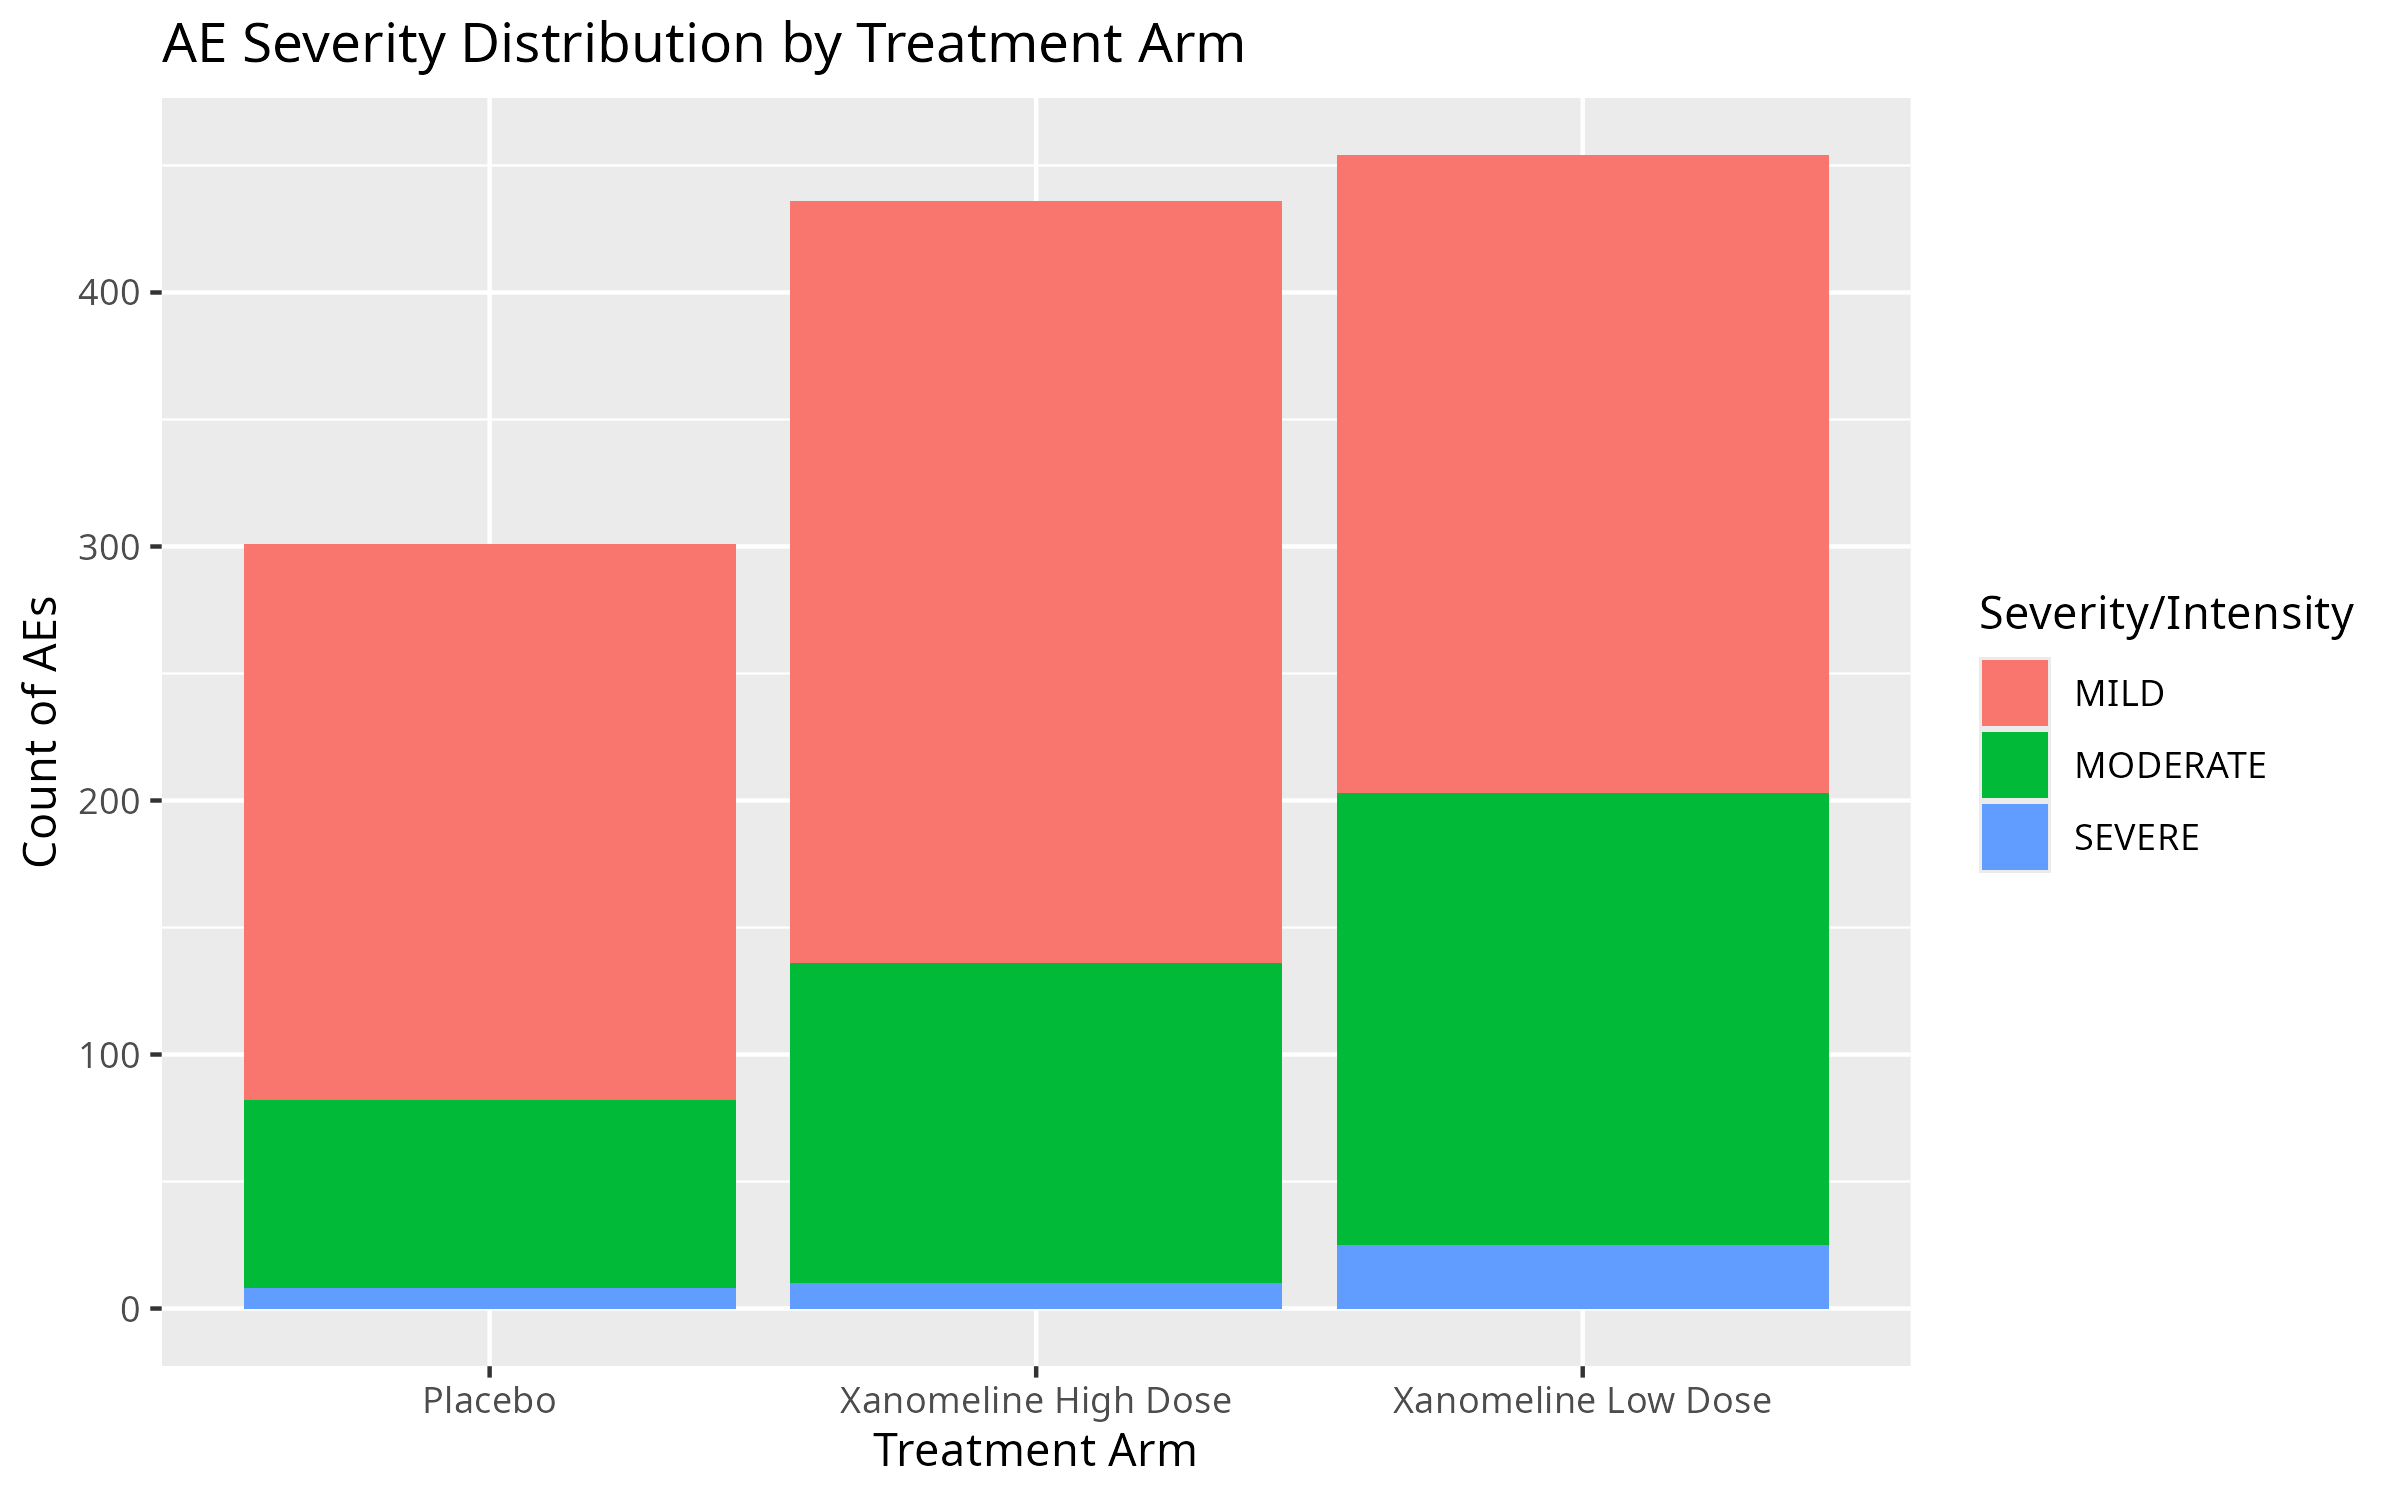
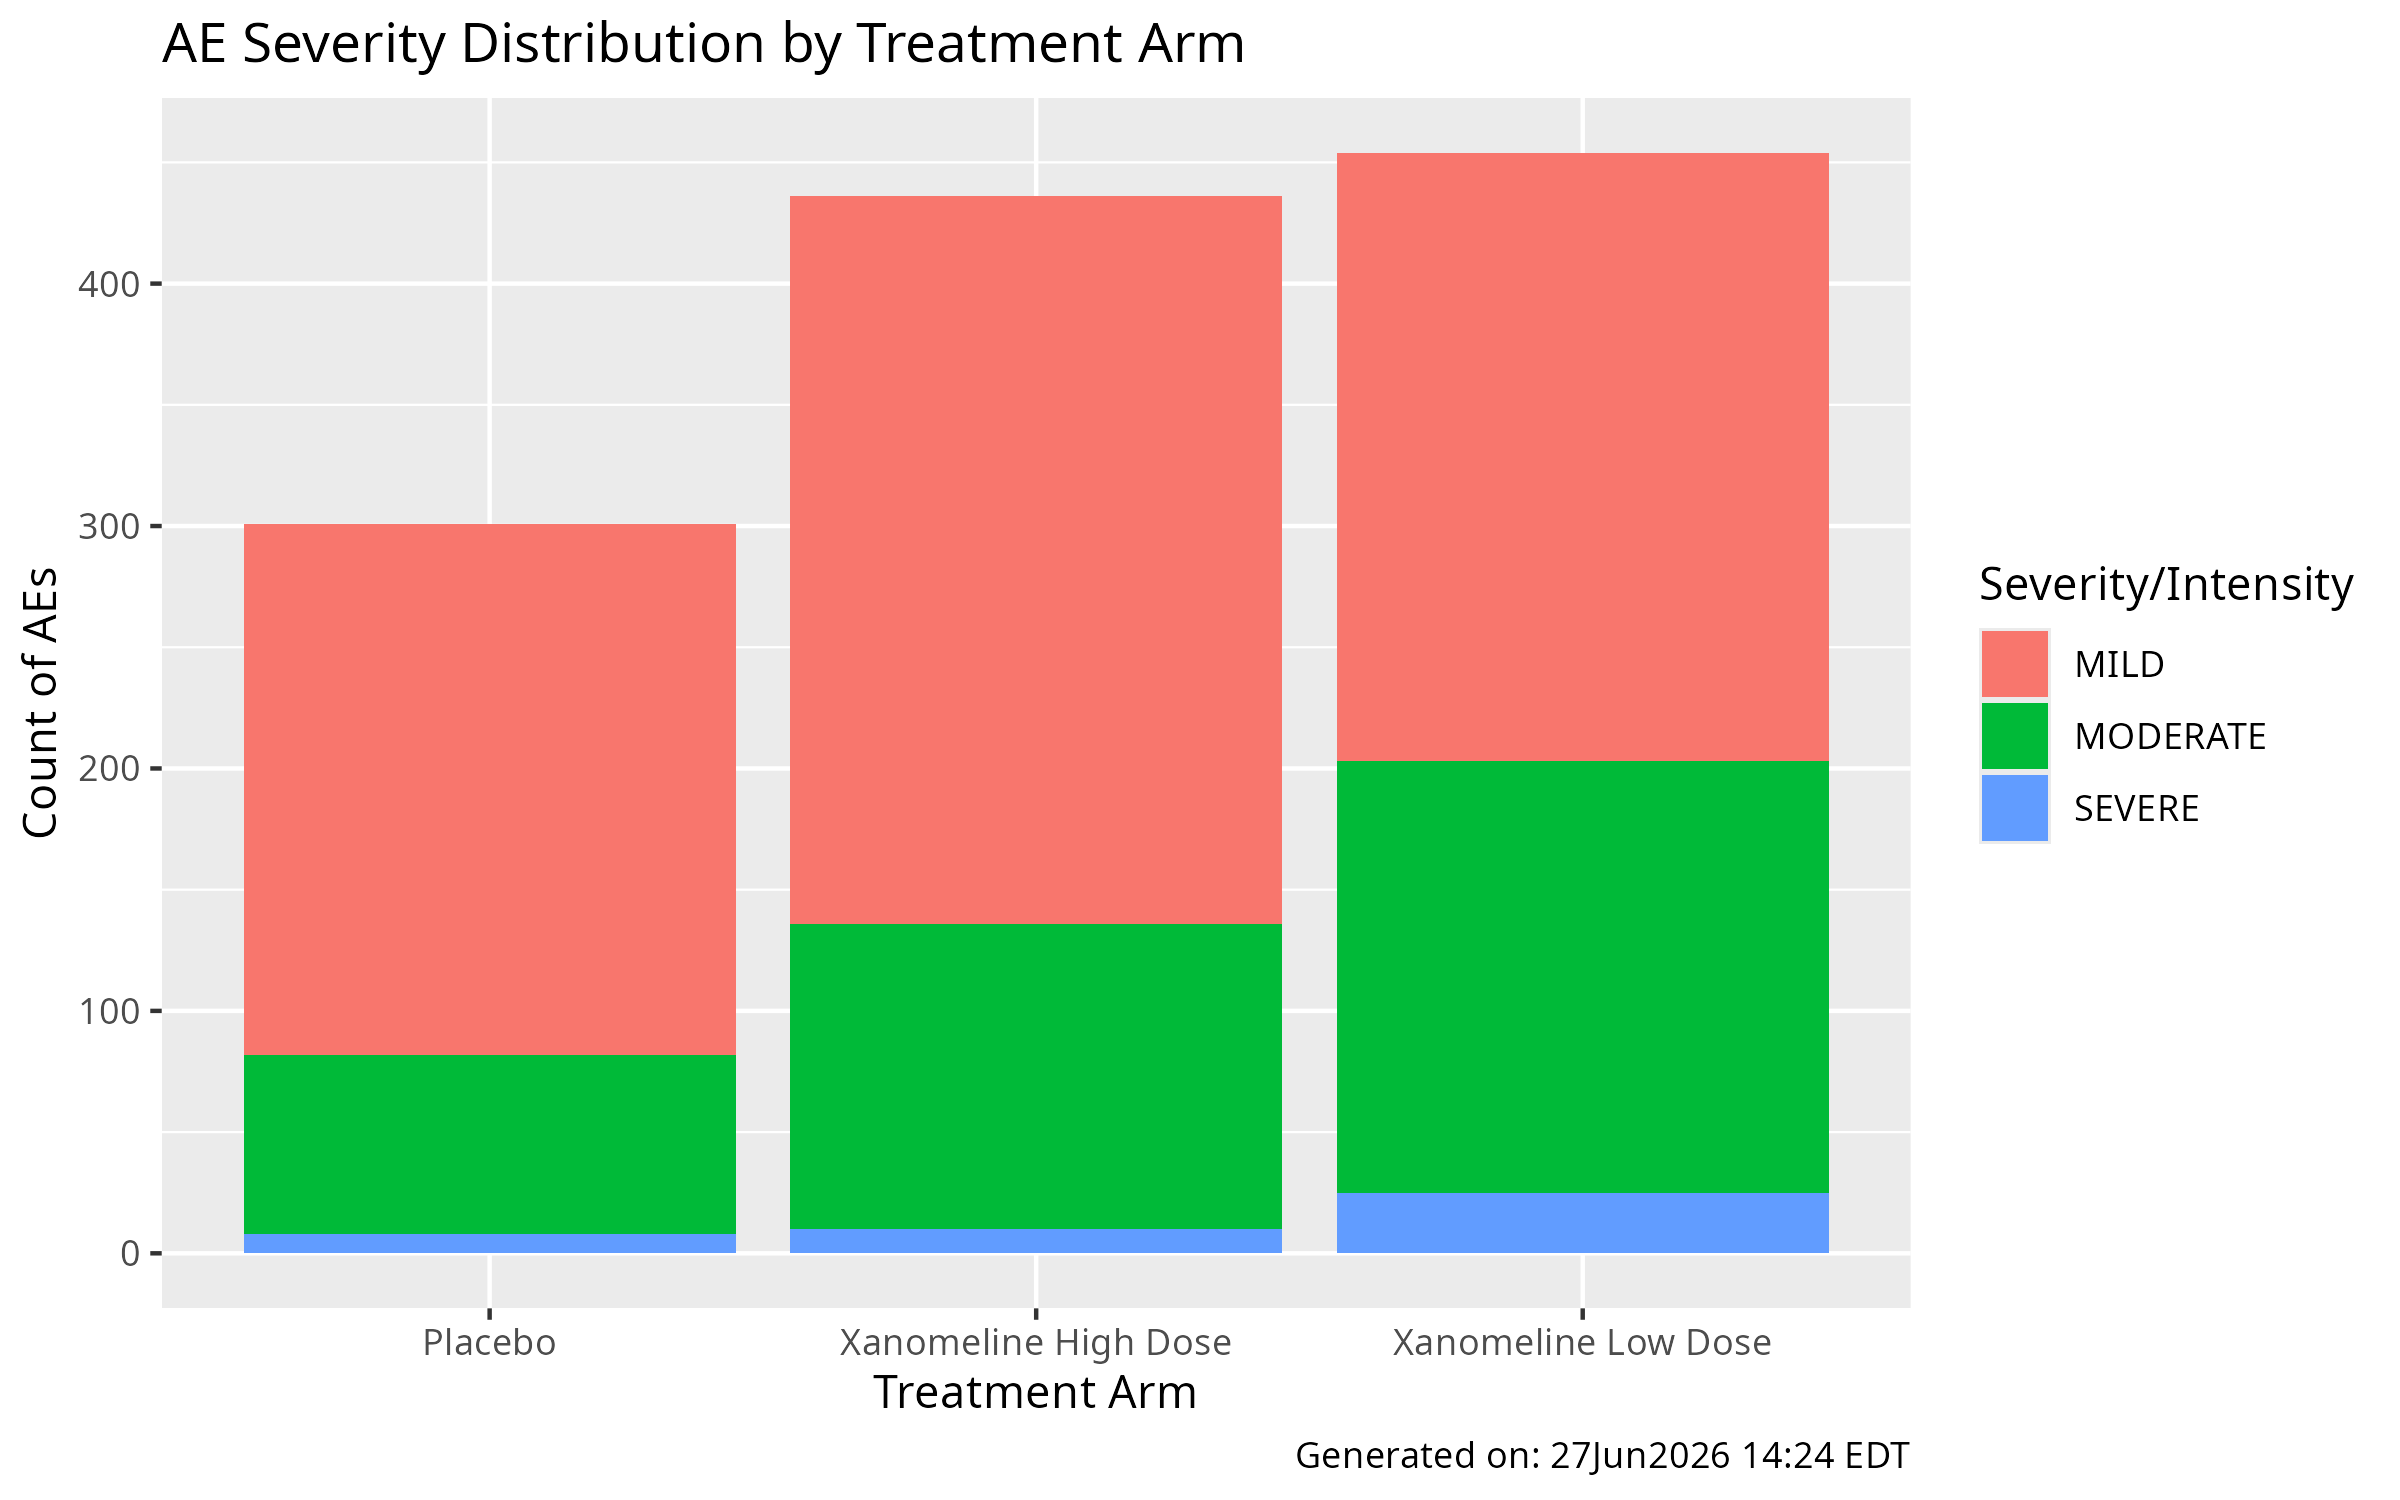
Cleaning up dev_functions.R code and pushing updated code and results from question 3 to GitHub

diff --git a/question_3_tlg/output/ae_summary_table.html b/question_3_tlg/output/ae_summary_table.html
@@ -7,23 +7,23 @@
 
 </head>
 <body>
-<div id="btbevpprmx" style="padding-left:0px;padding-right:0px;padding-top:10px;padding-bottom:10px;overflow-x:auto;overflow-y:auto;width:auto;height:auto;">
-  <style>#btbevpprmx table {
+<div id="yfqudzgdje" style="padding-left:0px;padding-right:0px;padding-top:10px;padding-bottom:10px;overflow-x:auto;overflow-y:auto;width:auto;height:auto;">
+  <style>#yfqudzgdje table {
   font-family: system-ui, 'Segoe UI', Roboto, Helvetica, Arial, sans-serif, 'Apple Color Emoji', 'Segoe UI Emoji', 'Segoe UI Symbol', 'Noto Color Emoji';
   -webkit-font-smoothing: antialiased;
   -moz-osx-font-smoothing: grayscale;
 }
 
-#btbevpprmx thead, #btbevpprmx tbody, #btbevpprmx tfoot, #btbevpprmx tr, #btbevpprmx td, #btbevpprmx th {
+#yfqudzgdje thead, #yfqudzgdje tbody, #yfqudzgdje tfoot, #yfqudzgdje tr, #yfqudzgdje td, #yfqudzgdje th {
   border-style: none;
 }
 
-#btbevpprmx p {
+#yfqudzgdje p {
   margin: 0;
   padding: 0;
 }
 
-#btbevpprmx .gt_table {
+#yfqudzgdje .gt_table {
   display: table;
   border-collapse: collapse;
   line-height: normal;
@@ -49,12 +49,12 @@
   border-left-color: #D3D3D3;
 }
 
-#btbevpprmx .gt_caption {
+#yfqudzgdje .gt_caption {
   padding-top: 4px;
   padding-bottom: 4px;
 }
 
-#btbevpprmx .gt_title {
+#yfqudzgdje .gt_title {
   color: #333333;
   font-size: 125%;
   font-weight: initial;
@@ -66,7 +66,7 @@
   border-bottom-width: 0;
 }
 
-#btbevpprmx .gt_subtitle {
+#yfqudzgdje .gt_subtitle {
   color: #333333;
   font-size: 85%;
   font-weight: initial;
@@ -78,7 +78,7 @@
   border-top-width: 0;
 }
 
-#btbevpprmx .gt_heading {
+#yfqudzgdje .gt_heading {
   background-color: #FFFFFF;
   text-align: center;
   border-bottom-color: #FFFFFF;
@@ -90,13 +90,13 @@
   border-right-color: #D3D3D3;
 }
 
-#btbevpprmx .gt_bottom_border {
+#yfqudzgdje .gt_bottom_border {
   border-bottom-style: solid;
   border-bottom-width: 2px;
   border-bottom-color: #D3D3D3;
 }
 
-#btbevpprmx .gt_col_headings {
+#yfqudzgdje .gt_col_headings {
   border-top-style: solid;
   border-top-width: 2px;
   border-top-color: #D3D3D3;
@@ -111,7 +111,7 @@
   border-right-color: #D3D3D3;
 }
 
-#btbevpprmx .gt_col_heading {
+#yfqudzgdje .gt_col_heading {
   color: #333333;
   background-color: #FFFFFF;
   font-size: 100%;
@@ -131,7 +131,7 @@
   overflow-x: hidden;
 }
 
-#btbevpprmx .gt_column_spanner_outer {
+#yfqudzgdje .gt_column_spanner_outer {
   color: #333333;
   background-color: #FFFFFF;
   font-size: 100%;
@@ -143,15 +143,15 @@
   padding-right: 4px;
 }
 
-#btbevpprmx .gt_column_spanner_outer:first-child {
+#yfqudzgdje .gt_column_spanner_outer:first-child {
   padding-left: 0;
 }
 
-#btbevpprmx .gt_column_spanner_outer:last-child {
+#yfqudzgdje .gt_column_spanner_outer:last-child {
   padding-right: 0;
 }
 
-#btbevpprmx .gt_column_spanner {
+#yfqudzgdje .gt_column_spanner {
   border-bottom-style: solid;
   border-bottom-width: 2px;
   border-bottom-color: #D3D3D3;
@@ -163,11 +163,11 @@
   width: 100%;
 }
 
-#btbevpprmx .gt_spanner_row {
+#yfqudzgdje .gt_spanner_row {
   border-bottom-style: hidden;
 }
 
-#btbevpprmx .gt_group_heading {
+#yfqudzgdje .gt_group_heading {
   padding-top: 8px;
   padding-bottom: 8px;
   padding-left: 5px;
@@ -193,7 +193,7 @@
   text-align: left;
 }
 
-#btbevpprmx .gt_empty_group_heading {
+#yfqudzgdje .gt_empty_group_heading {
   padding: 0.5px;
   color: #333333;
   background-color: #FFFFFF;
@@ -208,15 +208,15 @@
   vertical-align: middle;
 }
 
-#btbevpprmx .gt_from_md > :first-child {
+#yfqudzgdje .gt_from_md > :first-child {
   margin-top: 0;
 }
 
-#btbevpprmx .gt_from_md > :last-child {
+#yfqudzgdje .gt_from_md > :last-child {
   margin-bottom: 0;
 }
 
-#btbevpprmx .gt_row {
+#yfqudzgdje .gt_row {
   padding-top: 8px;
   padding-bottom: 8px;
   padding-left: 5px;
@@ -235,7 +235,7 @@
   overflow-x: hidden;
 }
 
-#btbevpprmx .gt_stub {
+#yfqudzgdje .gt_stub {
   color: #333333;
   background-color: #FFFFFF;
   font-size: 100%;
@@ -248,7 +248,7 @@
   padding-right: 5px;
 }
 
-#btbevpprmx .gt_stub_row_group {
+#yfqudzgdje .gt_stub_row_group {
   color: #333333;
   background-color: #FFFFFF;
   font-size: 100%;
@@ -262,15 +262,15 @@
   vertical-align: top;
 }
 
-#btbevpprmx .gt_row_group_first td {
+#yfqudzgdje .gt_row_group_first td {
   border-top-width: 2px;
 }
 
-#btbevpprmx .gt_row_group_first th {
+#yfqudzgdje .gt_row_group_first th {
   border-top-width: 2px;
 }
 
-#btbevpprmx .gt_summary_row {
+#yfqudzgdje .gt_summary_row {
   color: #333333;
   background-color: #FFFFFF;
   text-transform: inherit;
@@ -280,16 +280,16 @@
   padding-right: 5px;
 }
 
-#btbevpprmx .gt_first_summary_row {
+#yfqudzgdje .gt_first_summary_row {
   border-top-style: solid;
   border-top-color: #D3D3D3;
 }
 
-#btbevpprmx .gt_first_summary_row.thick {
+#yfqudzgdje .gt_first_summary_row.thick {
   border-top-width: 2px;
 }
 
-#btbevpprmx .gt_last_summary_row {
+#yfqudzgdje .gt_last_summary_row {
   padding-top: 8px;
   padding-bottom: 8px;
   padding-left: 5px;
@@ -299,7 +299,7 @@
   border-bottom-color: #D3D3D3;
 }
 
-#btbevpprmx .gt_grand_summary_row {
+#yfqudzgdje .gt_grand_summary_row {
   color: #333333;
   background-color: #FFFFFF;
   text-transform: inherit;
@@ -309,7 +309,7 @@
   padding-right: 5px;
 }
 
-#btbevpprmx .gt_first_grand_summary_row {
+#yfqudzgdje .gt_first_grand_summary_row {
   padding-top: 8px;
   padding-bottom: 8px;
   padding-left: 5px;
@@ -319,7 +319,7 @@
   border-top-color: #D3D3D3;
 }
 
-#btbevpprmx .gt_last_grand_summary_row_top {
+#yfqudzgdje .gt_last_grand_summary_row_top {
   padding-top: 8px;
   padding-bottom: 8px;
   padding-left: 5px;
@@ -329,11 +329,11 @@
   border-bottom-color: #D3D3D3;
 }
 
-#btbevpprmx .gt_striped {
+#yfqudzgdje .gt_striped {
   background-color: rgba(128, 128, 128, 0.05);
 }
 
-#btbevpprmx .gt_table_body {
+#yfqudzgdje .gt_table_body {
   border-top-style: solid;
   border-top-width: 2px;
   border-top-color: #D3D3D3;
@@ -342,7 +342,7 @@
   border-bottom-color: #D3D3D3;
 }
 
-#btbevpprmx .gt_footnotes {
+#yfqudzgdje .gt_footnotes {
   color: #333333;
   background-color: #FFFFFF;
   border-bottom-style: none;
@@ -356,7 +356,7 @@
   border-right-color: #D3D3D3;
 }
 
-#btbevpprmx .gt_footnote {
+#yfqudzgdje .gt_footnote {
   margin: 0px;
   font-size: 90%;
   padding-top: 4px;
@@ -365,7 +365,7 @@
   padding-right: 5px;
 }
 
-#btbevpprmx .gt_sourcenotes {
+#yfqudzgdje .gt_sourcenotes {
   color: #333333;
   background-color: #FFFFFF;
   border-bottom-style: none;
@@ -379,7 +379,7 @@
   border-right-color: #D3D3D3;
 }
 
-#btbevpprmx .gt_sourcenote {
+#yfqudzgdje .gt_sourcenote {
   font-size: 90%;
   padding-top: 4px;
   padding-bottom: 4px;
@@ -387,72 +387,72 @@
   padding-right: 5px;
 }
 
-#btbevpprmx .gt_left {
+#yfqudzgdje .gt_left {
   text-align: left;
 }
 
-#btbevpprmx .gt_center {
+#yfqudzgdje .gt_center {
   text-align: center;
 }
 
-#btbevpprmx .gt_right {
+#yfqudzgdje .gt_right {
   text-align: right;
   font-variant-numeric: tabular-nums;
 }
 
-#btbevpprmx .gt_font_normal {
+#yfqudzgdje .gt_font_normal {
   font-weight: normal;
 }
 
-#btbevpprmx .gt_font_bold {
+#yfqudzgdje .gt_font_bold {
   font-weight: bold;
 }
 
-#btbevpprmx .gt_font_italic {
+#yfqudzgdje .gt_font_italic {
   font-style: italic;
 }
 
-#btbevpprmx .gt_super {
+#yfqudzgdje .gt_super {
   font-size: 65%;
 }
 
-#btbevpprmx .gt_footnote_marks {
+#yfqudzgdje .gt_footnote_marks {
   font-size: 75%;
   vertical-align: 0.4em;
   position: initial;
 }
 
-#btbevpprmx .gt_asterisk {
+#yfqudzgdje .gt_asterisk {
   font-size: 100%;
   vertical-align: 0;
 }
 
-#btbevpprmx .gt_indent_1 {
+#yfqudzgdje .gt_indent_1 {
   text-indent: 5px;
 }
 
-#btbevpprmx .gt_indent_2 {
+#yfqudzgdje .gt_indent_2 {
   text-indent: 10px;
 }
 
-#btbevpprmx .gt_indent_3 {
+#yfqudzgdje .gt_indent_3 {
   text-indent: 15px;
 }
 
-#btbevpprmx .gt_indent_4 {
+#yfqudzgdje .gt_indent_4 {
   text-indent: 20px;
 }
 
-#btbevpprmx .gt_indent_5 {
+#yfqudzgdje .gt_indent_5 {
   text-indent: 25px;
 }
 
-#btbevpprmx .katex-display {
+#yfqudzgdje .katex-display {
   display: inline-flex !important;
   margin-bottom: 0.75em !important;
 }
 
-#btbevpprmx div.Reactable > div.rt-table > div.rt-thead > div.rt-tr.rt-tr-group-header > div.rt-th-group:after {
+#yfqudzgdje div.Reactable > div.rt-table > div.rt-thead > div.rt-tr.rt-tr-group-header > div.rt-th-group:after {
   height: 0px !important;
 }
 </style>
@@ -468,7 +468,7 @@ N = 86</span><span class="gt_footnote_marks" style="white-space:nowrap;font-styl
 N = 72</span><span class="gt_footnote_marks" style="white-space:nowrap;font-style:italic;font-weight:normal;line-height:0;"><sup>1</sup></span></th>
       <th class="gt_col_heading gt_columns_bottom_border gt_center" rowspan="1" colspan="1" scope="col" id="stat_3"><span class='gt_from_md'><strong>Xanomeline Low Dose</strong><br />
 N = 96</span><span class="gt_footnote_marks" style="white-space:nowrap;font-style:italic;font-weight:normal;line-height:0;"><sup>1</sup></span></th>
-      <th class="gt_col_heading gt_columns_bottom_border gt_center" rowspan="1" colspan="1" scope="col" id="stat_0"><span class='gt_from_md'><strong>Total</strong> N = 254</span><span class="gt_footnote_marks" style="white-space:nowrap;font-style:italic;font-weight:normal;line-height:0;"><sup>1</sup></span></th>
+      <th class="gt_col_heading gt_columns_bottom_border gt_center" rowspan="1" colspan="1" scope="col" id="stat_0"><span class='gt_from_md'><strong>Total</strong><br>N = 254</span><span class="gt_footnote_marks" style="white-space:nowrap;font-style:italic;font-weight:normal;line-height:0;"><sup>1</sup></span></th>
     </tr>
   </thead>
   <tbody class="gt_table_body">
@@ -1748,7 +1748,7 @@ N = 96</span><span class="gt_footnote_marks" style="white-space:nowrap;font-styl
       <td class="gt_footnote" colspan="5"><span class="gt_footnote_marks" style="white-space:nowrap;font-style:italic;font-weight:normal;line-height:0;"><sup>1</sup></span> <span class='gt_from_md'>n (%)</span></td>
     </tr>
     <tr class="gt_sourcenotes">
-      <td class="gt_sourcenote" colspan="5"><span class='gt_from_md'><em>Output generated: 26Jun2026 22:15 EDT</em></span></td>
+      <td class="gt_sourcenote" colspan="5"><span class='gt_from_md'>Generated on: 27Jun2026 14:35 EDT</span></td>
     </tr>
   </tfoot>
 </table>